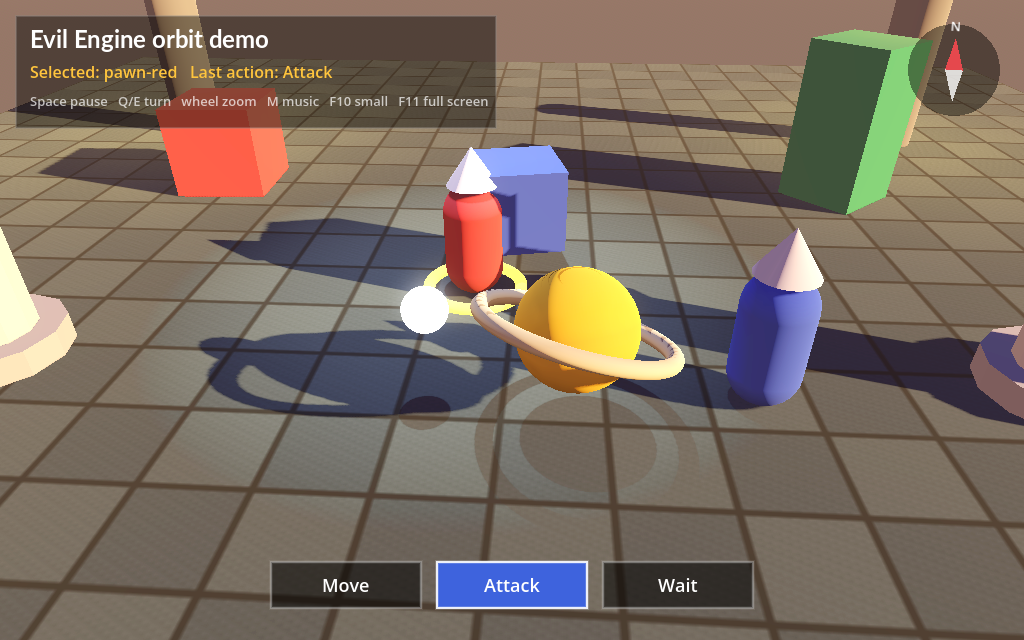
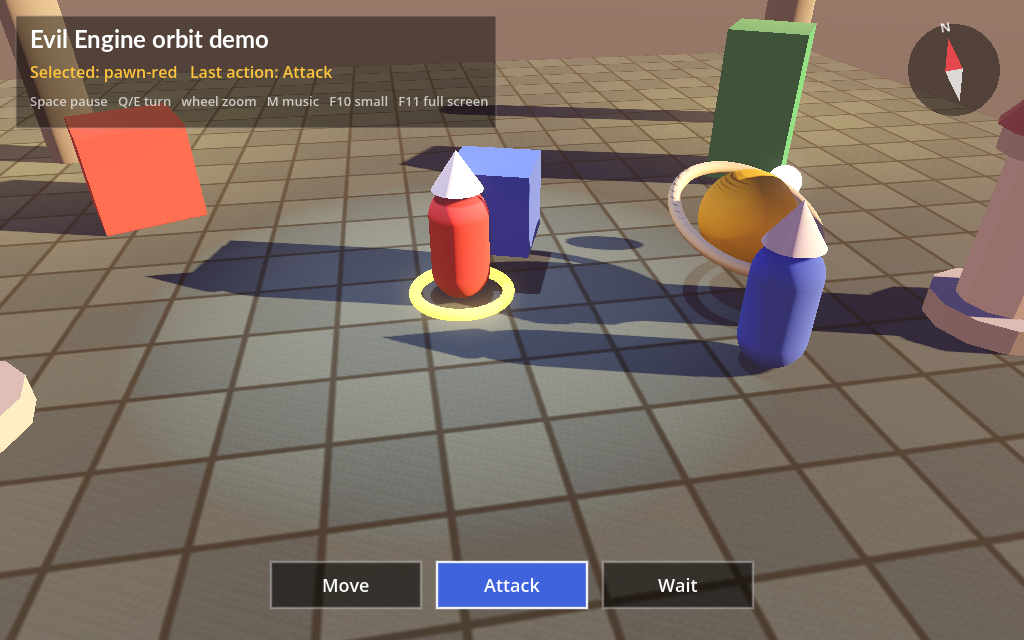
R29: a game may ask for its picture to scale with the window (0.4.4)

diff --git a/tests/Evil.Engine.GodotTests/Screen/ScreenTests.cs b/tests/Evil.Engine.GodotTests/Screen/ScreenTests.cs
@@ -124,6 +124,21 @@ internal static class ScreenTests
     }
 
     [Test]
+    public static void AWindowThatScalesKeepsTheSizeTheGameWasMadeFor()
+    {
+        Godot.Window scaled = new Godot.Window();
+        WindowSetup.Apply(new WindowSettings("Scaled", 640, 360, ScalesWithWindow: true), scaled);
+        Check.Equal(new Godot.Vector2I(640, 360), scaled.ContentScaleSize, "the size the picture was made for");
+        Check.Equal(Godot.Window.ContentScaleModeEnum.CanvasItems, scaled.ContentScaleMode, "the overlay is scaled to the window");
+        Check.Equal(Godot.Window.ContentScaleAspectEnum.Keep, scaled.ContentScaleAspect, "and keeps its shape");
+        Godot.Window plain = new Godot.Window();
+        WindowSetup.Apply(new WindowSettings("Plain", 640, 360), plain);
+        Check.Equal(Godot.Window.ContentScaleModeEnum.Disabled, plain.ContentScaleMode, "a window that does not scale is left alone");
+        scaled.Free();
+        plain.Free();
+    }
+
+    [Test]
     public static void DisplayChecksWhatItIsGiven()
     {
         Display display = new Display(new WindowSettings("Start"));

diff --git a/src/07_Screen/Evil.Engine.Screen/Window/WindowSetup.cs b/src/07_Screen/Evil.Engine.Screen/Window/WindowSetup.cs
@@ -9,6 +9,13 @@ internal static class WindowSetup
     {
         window.Title = settings.Title;
         window.Unresizable = !settings.Resizable;
+        if (settings.ScalesWithWindow)
+        {
+            window.ContentScaleSize = new Vector2I(settings.Width, settings.Height);
+            window.ContentScaleMode = GodotWindow.ContentScaleModeEnum.CanvasItems;
+            window.ContentScaleAspect = GodotWindow.ContentScaleAspectEnum.Keep;
+        }
+
         DisplayServer.WindowSetVsyncMode(settings.VSync ? DisplayServer.VSyncMode.Enabled : DisplayServer.VSyncMode.Disabled);
         if (settings.Fullscreen)
         {

diff --git a/src/07_Screen/Evil.Engine.Screen/Window/WindowSettings.cs b/src/07_Screen/Evil.Engine.Screen/Window/WindowSettings.cs
@@ -6,4 +6,5 @@ public sealed record WindowSettings(
     int Height = 720,
     bool VSync = true,
     bool Resizable = true,
-    bool Fullscreen = false);
+    bool Fullscreen = false,
+    bool ScalesWithWindow = false);

diff --git a/documents/Decisions.md b/documents/Decisions.md
@@ -79,3 +79,4 @@ Why the engine is built the way it is. Change a decision here first, then the co
 | 64 | **No shading on characters for now** (owner: "just load model, shading is for later"): 0.4.1 took decisions 59, 60 and 63 out again and draws the package's plain colours | the owner steers the look and wants the import judged first; the package keeps the shading data, the code is at tag `v0.4.0` | leaving shading in that was not asked for |
 | 65 | **Code has no effect on a character's look** (owner: "I just want the original models we made in Blender load in, that's all. Not any extra effects"): 0.4.2 took `Wash` out | Blender designs, code uses; a tint from code made a character look wrong "for no reason" to the one who designed it | keeping a tint for fallen fighters |
 | 66 | **A clip's length is checked against its description when a character loads** (0.4.3) | a description is written from a plan and a file from an export; the game's first packages said 8 s over files of 0.03 s, and a pose change through a cross-fade passed for an animation | trusting the description, or checking only that the clip exists |
+| 67 | **A game may ask for its picture to be scaled to the window** (`ScalesWithWindow`, 0.4.4), off by default | the turn-based game's screen is laid out for 1280 by 720 and fell apart when its window was maximised; scaling the finished picture fixes every screen at once and leaves games that lay out from `canvas.Size` alone | rewriting every view to lay out from the window's size; forbidding the window to change size |

diff --git a/documents/API/Screen.md b/documents/API/Screen.md
@@ -68,6 +68,22 @@ The display drives Godot's root `Window` node. Changing the size through the low
 shrank the OS window, but Godot never told the game, so `Game.ScreenSize` stayed at the old size. With the root
 `Window` the game sees the new size on the next frame.
 
+### A game laid out for one size
+
+By default the overlay is in window pixels and `Game.ScreenSize` follows the window: a game that lays its screen
+out from `canvas.Size` fits any window. A game whose screen is laid out for one size asks for the picture to be
+scaled instead:
+
+```csharp
+GameBuilder.Create(new WindowSettings("Turn-Based Game", 1280, 720, ScalesWithWindow: true))
+```
+
+Then `Game.ScreenSize` stays 1280 by 720 whatever the window does. The overlay is drawn at that size and scaled
+to the window, the 3D world is drawn at the window's own sharpness, and a window of another shape gets bars at
+its sides. Mouse positions, `Camera.WorldToScreen` and `Camera.ScreenToRay` are all in the same 1280 by 720, so
+no game code changes. The turn-based game's screen was built for 1280 by 720 and fell apart in a maximised
+window until it asked for this.
+
 ## Screenshots
 
 | Call | What |

diff --git a/documents/LOOP.md b/documents/LOOP.md
@@ -366,3 +366,8 @@ The second loop is done: R13 to R24 all ticked. Left: R12 (the owner's PC, waits
   naming both. The export is fixed and its own check measures the same. The gate's leak check then caught that a
   refused character left its nodes behind: a refused character or clothing piece now frees what it had loaded,
   and a failed `Wear` leaves the character as it was. 124 Godot tests.
+- 2026-11-19 R29: **A picture that scales with its window (0.4.4).** The owner, with the game maximised on the PC:
+  "it broke ui position". The game's screen is laid out for 1280 by 720; in a bigger window the 3D world grew and
+  the plates, the panel and the command ring stayed where they were. `WindowSettings.ScalesWithWindow` keeps the
+  size a game was made for and scales the finished picture to the window, with bars at the sides for another
+  shape. Off by default, so the demo and its resize check are as before. 125 Godot tests.

diff --git a/documents/Getting Started/Make a Game.md b/documents/Getting Started/Make a Game.md
@@ -37,7 +37,7 @@ Godot 4.7.2 .NET. One command makes it.
    ```
 
    The first line the game prints says it started, before the first scene enters, for example
-   `Evil Engine 0.4.3: "Tile Skirmish" 1280x720, first scene MapScene, content res://content`. No line means the
+   `Evil Engine 0.4.4: "Tile Skirmish" 1280x720, first scene MapScene, content res://content`. No line means the
    engine never started. The import is needed once, and again after new content. To take screenshots
    or click with `xdotool`, see "Driving a game on the server" in [[Testing]].
 
@@ -117,7 +117,7 @@ internal sealed class MapScene : Scene
   </PropertyGroup>
   <Import Project="CodeStyle.targets" />
   <ItemGroup>
-    <PackageReference Include="Evil.Engine" Version="0.4.3" />
+    <PackageReference Include="Evil.Engine" Version="0.4.4" />
   </ItemGroup>
 </Project>
 ```

diff --git a/documents/Home.md b/documents/Home.md
@@ -5,14 +5,14 @@ aliases: [Start here, Index]
 
 # Evil Engine
 
-Our own game engine SDK for C#, version **0.4.3**: twelve class libraries over **Godot 4.7.2 (.NET)** for a full 3D
+Our own game engine SDK for C#, version **0.4.4**: twelve class libraries over **Godot 4.7.2 (.NET)** for a full 3D
 game. Godot renders, plays sound and runs the window; a game talks only to our API. It sees Evil Engine types and
 `System.Numerics` vectors, never Godot's. The idea it started from is still at the heart: things in a **group**
 move, turn and scale together ([[Grouped Transforms]]).
 
 > [!tip] New here?
 > `dotnet new evil-game` makes a game in one command: [[Make a Game]]. [[Run the Sample]] shows everything the engine
-> does; [[Changes]] says what is new in 0.4.3.
+> does; [[Changes]] says what is new in 0.4.4.
 
 ![[r10-audio.png]]
 

diff --git a/documents/Changes.md b/documents/Changes.md
@@ -1,12 +1,22 @@
 ---
 tags: [release, changes]
-aliases: [Release notes, What changed, 0.4.3, 0.4.2, 0.4.1, 0.4.0, 0.3.0]
+aliases: [Release notes, What changed, 0.4.4, 0.4.3, 0.4.2, 0.4.1, 0.4.0, 0.3.0]
 ---
 
 # Changes
 
 What a game author needs to know between versions. The why behind each change is in [[Decisions]], the rounds that
 made them in [[LOOP]].
+
+## 0.4.4 (November 2026)
+
+**New**
+
+| What | Where |
+|---|---|
+| `WindowSettings(..., ScalesWithWindow: true)`: the game keeps the size it was laid out for, and the picture is scaled to the window (bars at the sides for a window of another shape) | [[Screen]] |
+
+Off by default: a window that does not ask for it behaves as before, and `Game.ScreenSize` follows it.
 
 ## 0.4.3 (November 2026)
 
